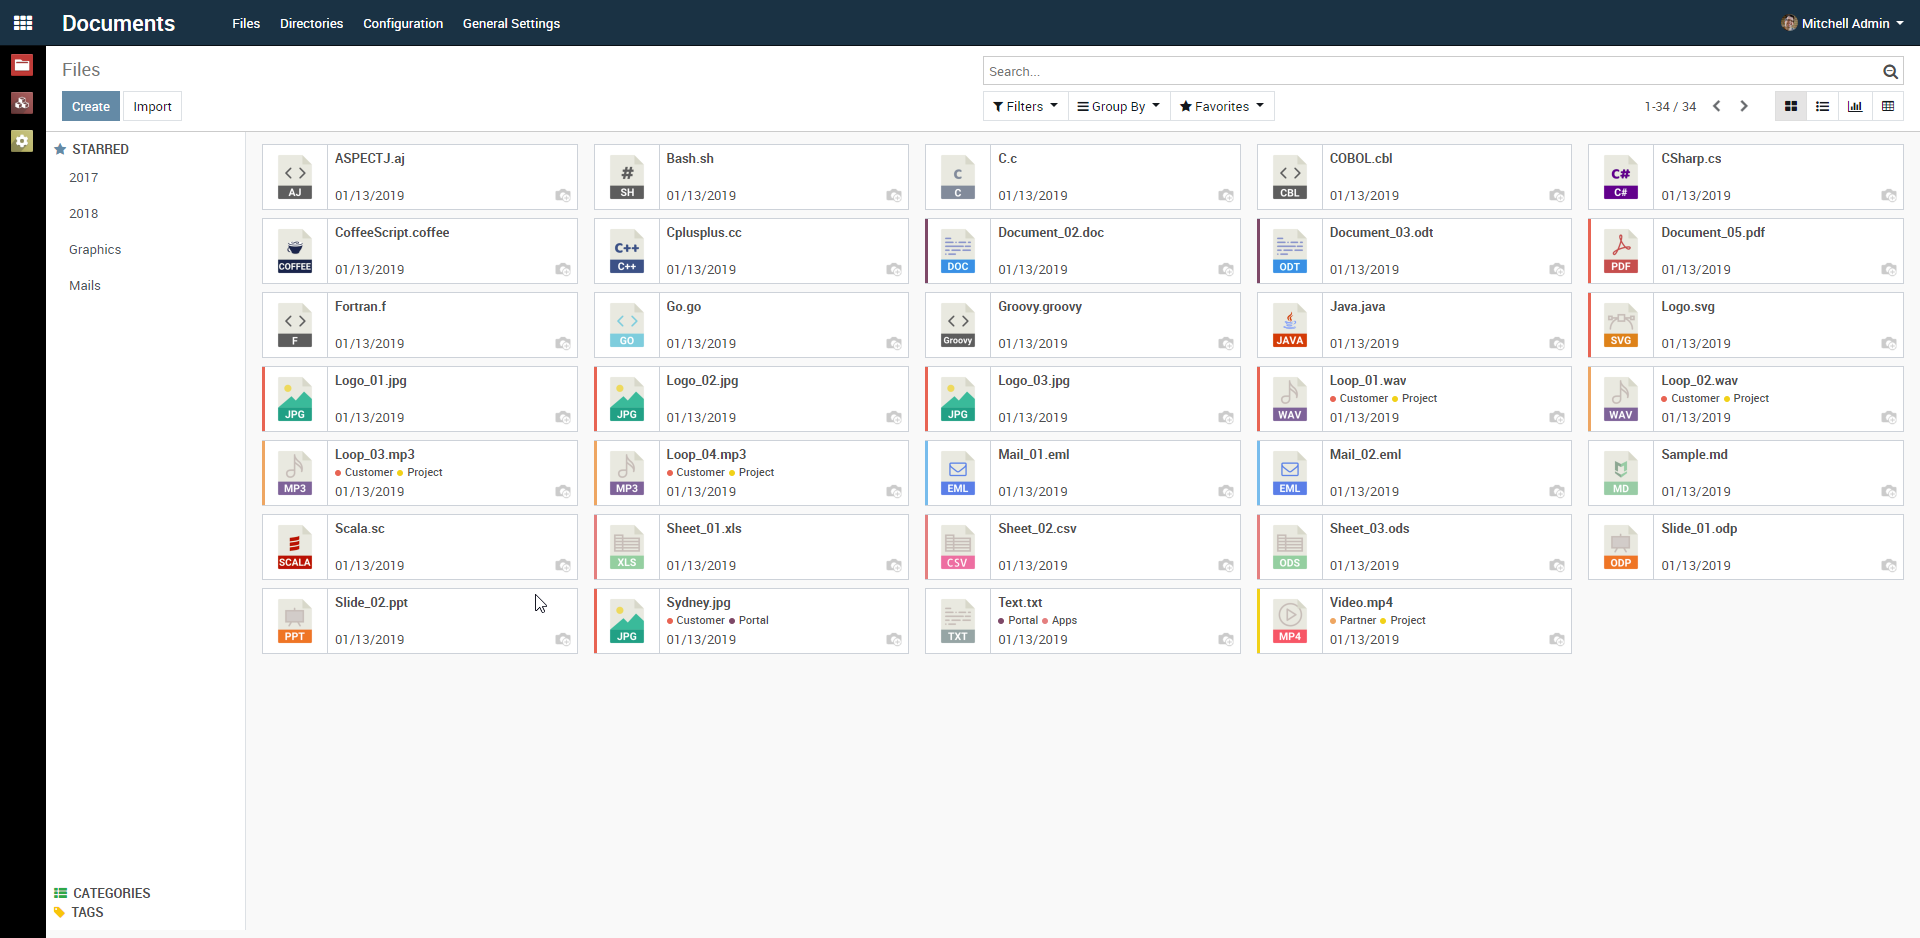
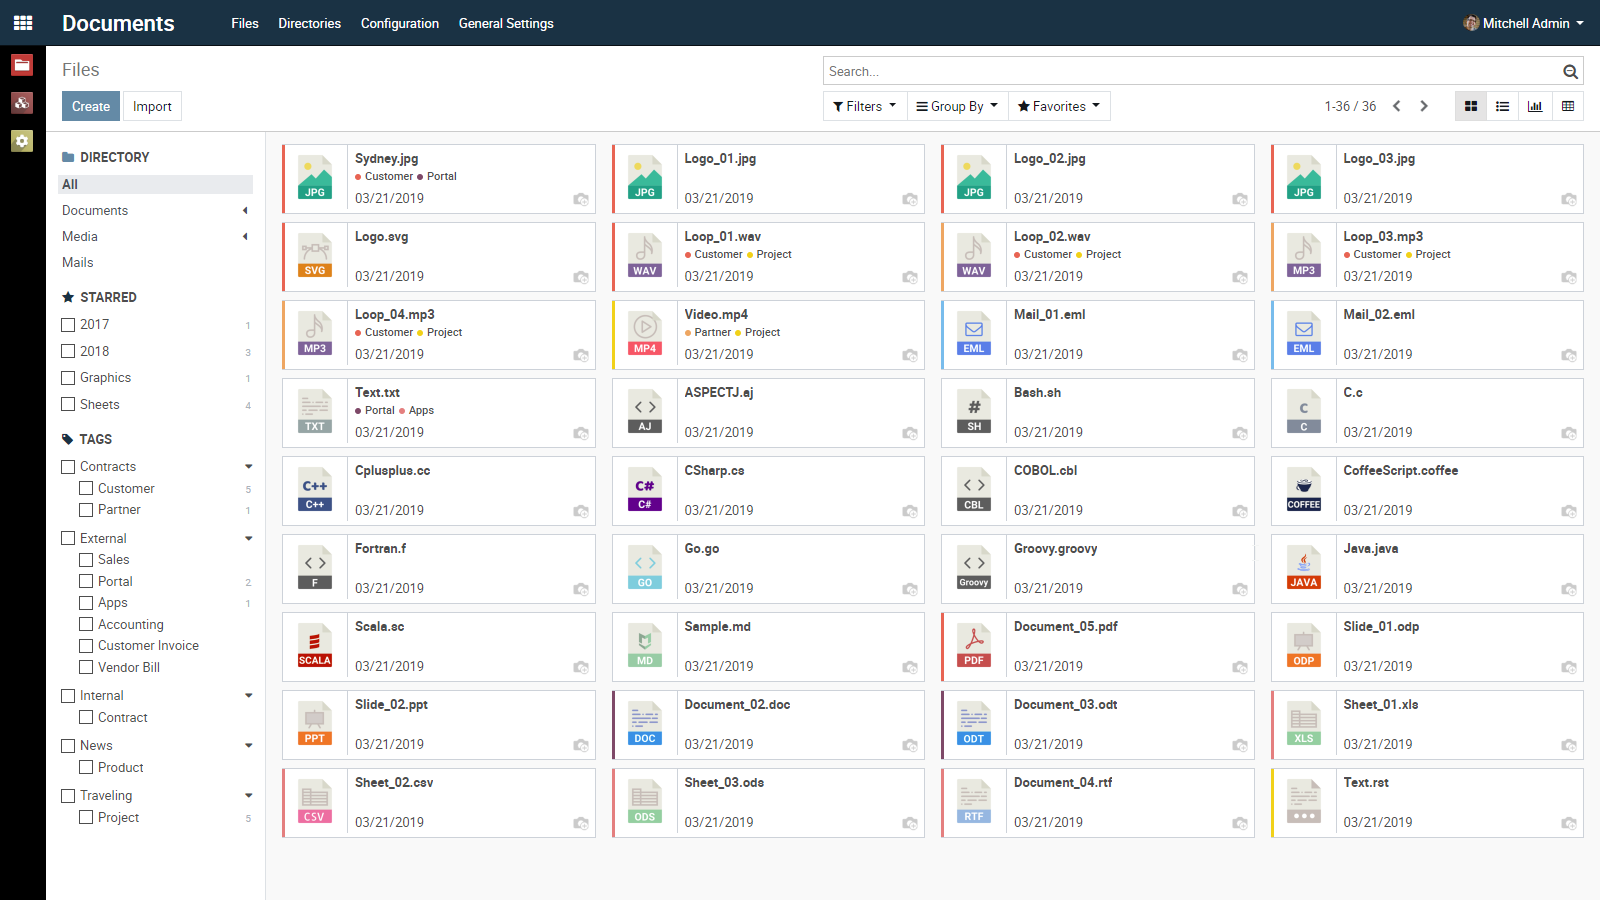
publish muk_dms - 12.0

diff --git a/muk_dms/static/src/scss/file_kanban.scss b/muk_dms/static/src/scss/file_kanban.scss
@@ -17,49 +17,52 @@
 *
 **********************************************************************************/
 
-.mk_file_kanban_view .o_kanban_record {
-	padding: 0;
-	.o_kanban_image {
-		width: $o-kanban-image-width + 1;
-		border-right: solid 1px $gray-400;
-	}
-	.o_kanban_details .o_kanban_details_wrapper {
-		padding: 4px 4px 4px 0;
-		.o_kanban_record_title {
-			font-weight: bold;
+.mk_file_kanban_view {
+	height: 100%;
+	.o_kanban_record {
+		padding: 0;
+		.o_kanban_image {
+			width: $o-kanban-image-width + 1;
+			border-right: solid 1px $gray-400;
 		}
-		.o_kanban_record_body {
-			max-height: 15px;
-			.o_kanban_tags {
-				@include o-text-overflow;
+		.o_kanban_details .o_kanban_details_wrapper {
+			padding: 4px 4px 4px 0;
+			.o_kanban_record_title {
+				font-weight: bold;
+			}
+			.o_kanban_record_body {
+				max-height: 15px;
+				.o_kanban_tags {
+					@include o-text-overflow;
+				}
+			}
+			.mk_file_kanban_lock {
+				margin-top: 1px;
+			    font-size: 1.2rem;
+			    line-height: 20px;
 			}
 		}
-		.mk_file_kanban_lock {
-			margin-top: 1px;
-		    font-size: 1.2rem;
-		    line-height: 20px;
-		}
-	}
-	.o_dropdown_kanban {
-        .dropdown-menu {
-            min-width: 22rem;
-            .mk_file_kanban_operations {
-	            padding-right: 8px;
-            }
-            .mk_file_kanban_actions {
-			    padding-left: 8px;
-            }
-            .fa {
-	           	min-width: 12px;
-       			padding-right: 2px;
-			    text-align: center;
-            }
-	        .oe_kanban_colorpicker {
-	            max-width: none;    
-	            margin: 5px 5px;
-    			padding: 10px 0 0 25px;
-	            border-top: 1px solid gray('300');
+		.o_dropdown_kanban {
+	        .dropdown-menu {
+	            min-width: 22rem;
+	            .mk_file_kanban_operations {
+		            padding-right: 8px;
+	            }
+	            .mk_file_kanban_actions {
+				    padding-left: 8px;
+	            }
+	            .fa {
+		           	min-width: 12px;
+	       			padding-right: 2px;
+				    text-align: center;
+	            }
+		        .oe_kanban_colorpicker {
+		            max-width: none;    
+		            margin: 5px 5px;
+	    			padding: 10px 0 0 25px;
+		            border-top: 1px solid gray('300');
+		        }
 	        }
-        }
-    }
+	    }
+	}
 }

diff --git a/muk_dms/static/src/js/views/file/kanban/file_kanban_controller.js b/muk_dms/static/src/js/views/file/kanban/file_kanban_controller.js
@@ -38,29 +38,22 @@ var FileKanbanController = KanbanController.extend(FileUpload, {
 	custom_events: _.extend({}, KanbanController.prototype.custom_events, {
 		upload_files: '_onUploadFiles',
     }),
-//    _getDirectory: function () {
-//        var record = this.model.get(this.handle, {raw: true});
-//    	var context = record.getContext();
-//    	if (this.selectedDirectory) {
-//    		return this.selectedDirectory;
-//    	} else if (context.active_model === "muk_dms.directory") {
-//    		return context.active_id;
-//    	}
-//    },
-//    _getSidebarDomain: function() {
-//    	if (!_.isEmpty(this.activeCategories) && !_.isEmpty(this.activeTags)) {
-//    		return ['&', ['category', 'in', this.activeCategories], ['tags', 'in', this.activeTags]];
-//    	} else if (!_.isEmpty(this.activeCategories)) {
-//    		return [['category', 'in', this.activeCategories]];
-//    	} else if (!_.isEmpty(this.activeTags)) {
-//    		return [['tags', 'in', this.activeTags]];
-//    	}
-//    },
+    _getSelectedDirectory: function () {
+        var record = this.model.get(this.handle, {raw: true});
+        console.log(this)
+        var directoryID = this._searchPanel.getSelectedDirectory();
+    	var context = record.getContext();
+    	if (directoryID) {
+    		return directoryID;
+    	} else if (context.active_model === "muk_dms.directory") {
+    		return context.active_id;
+    	}
+    },
 	_onUploadFiles: function(event) {
-		var directory = this._getDirectory();
-		if (directory) {
+		var directoryID = this._getSelectedDirectory();
+		if (directoryID) {
 			utils.getFileTree(event.data.items, true).then(
-				this._uploadFiles.bind(this, directory) 
+				this._uploadFiles.bind(this, directoryID) 
 			);
 		} else {
 			this.do_warn(_t("Upload Error"), _t("No Directory has been selected!"));

diff --git a/muk_dms/static/src/js/views/file/kanban/file_kanban_view.js b/muk_dms/static/src/js/views/file/kanban/file_kanban_view.js
@@ -28,7 +28,7 @@ var KanbanView = require('web.KanbanView');
 var FileKanbanModel = require('muk_dms.FileKanbanModel');
 var FileKanbanRenderer = require('muk_dms.FileKanbanRenderer');
 var FileKanbanController = require('muk_dms.FileKanbanController');
-//var FileSearchPanel = require('muk_dms.FileSearchPanel');
+var FileSearchPanel = require('muk_dms.FileSearchPanel');
 
 var _t = core._t;
 var QWeb = core.qweb;
@@ -38,7 +38,7 @@ var FileKanbanView = KanbanView.extend({
 		Renderer: FileKanbanRenderer,
         Controller: FileKanbanController,
         Model: FileKanbanModel,
-//		SearchPanel: FileSearchPanel,
+		SearchPanel: FileSearchPanel,
     }),
 });
 

diff --git a/muk_dms/static/src/js/views/file/kanban/file_kanban_searchpanel.js b/muk_dms/static/src/js/views/file/kanban/file_kanban_searchpanel.js
@@ -21,15 +21,21 @@ odoo.define('muk_dms.FileSearchPanel', function (require) {
 "use strict";
 
 var core = require('web.core');
+var ajax = require('web.ajax');
+var session = require('web.session');
 
 var SearchPanel = require('web.SearchPanel');
 
 var _t = core._t;
 var QWeb = core.qweb;
 
-
 var FileSearchPanel = SearchPanel.extend({
-
+	getSelectedDirectory: function () {
+        var category = _.findWhere(this.categories, {
+    		fieldName: 'directory'
+    	});
+        return category.activeValueId;
+    },
 });
 
 return FileSearchPanel;

diff --git a/muk_dms/__manifest__.py b/muk_dms/__manifest__.py
@@ -20,7 +20,7 @@
 {
     "name": "MuK Documents", 
     "summary": """Document Management System""",
-    "version": '12.0.2.7.0',   
+    "version": '12.0.2.7.1',   
     "category": 'Document Management',   
     "license": "AGPL-3",
     "website": "http://www.mukit.at",
